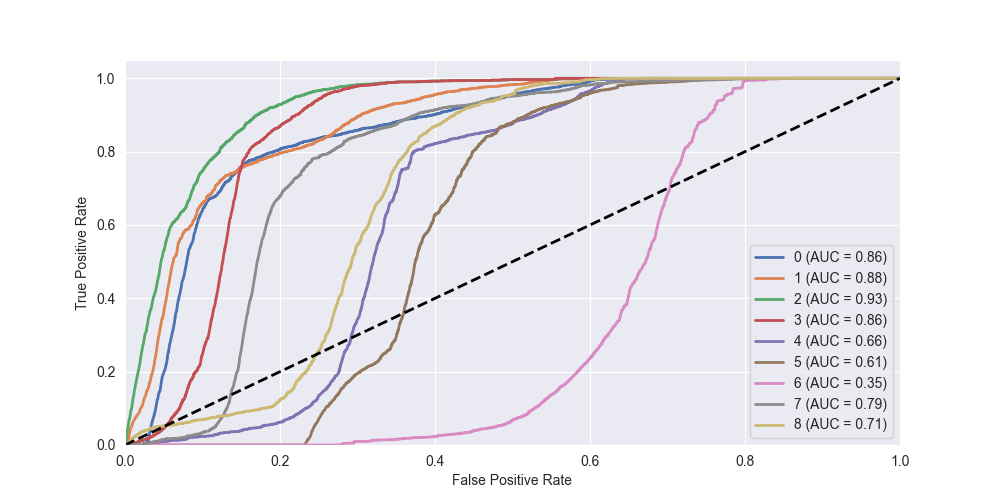
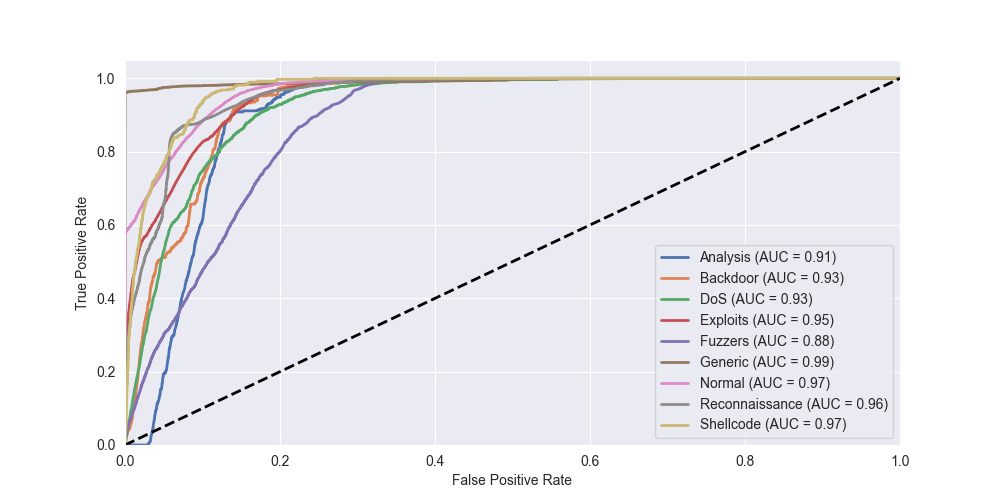
fix

diff --git a/src/models/predict_model.py b/src/models/predict_model.py
@@ -16,6 +16,7 @@ from sklearn.metrics import mean_absolute_error as mae
 from sklearn.metrics import mean_absolute_percentage_error as mape
 from sklearn.metrics import mean_squared_error as mse
 from sklearn.metrics import precision_score, recall_score, roc_curve
+from sklearn.preprocessing import LabelBinarizer
 
 from data.preprocess_data import get_classes
 
@@ -141,7 +142,7 @@ class Prediction:
         prob = self.category_model.predict(x)
         y_pred = np.argmax(prob, axis=-1)
 
-        self.calculate_classification_metrics(y, y_pred, x, is_test_set=False)
+        self.calculate_classification_metrics(y, y, y_pred, x, is_test_set=False)
 
         res_list = list(Counter(y_pred).items())
         res_list.sort(key=lambda a: a[1], reverse=True)
@@ -158,8 +159,11 @@ class Prediction:
         test_df = pd.read_csv(const.WHOLE_CAT_TEST_DATASET)
         testX, testY = format_data(test_df)
 
+        train_df = pd.read_csv(const.WHOLE_CAT_TRAIN_DATASET)
+        _, trainY = format_data(train_df)
+
         prob = self.category_model.predict(testX)
-        self.calculate_classification_metrics(testY, prob, is_test_set=True)
+        self.calculate_classification_metrics(trainY, testY, prob, is_test_set=True)
 
 
     ## Metrics ##
@@ -178,7 +182,7 @@ class Prediction:
                 f.write('RMSE score:  {:.2f}\n\n'.format(math.sqrt(mse_score)))
 
 
-    def calculate_classification_metrics(self, y, prob, is_test_set):
+    def calculate_classification_metrics(self, y_train, y, prob, is_test_set):
         if is_test_set:
             METRICS_PATH = const.MODEL_CLASSIFICATION_METRICS_TEST_PATH
             ROC_CURVE_PATH = const.MODEL_METRICS_ROC_TEST_PATH
@@ -214,7 +218,7 @@ class Prediction:
         plt.tight_layout()
         plt.savefig(CONF_MATRIX_PATH.format(self.model_number), dpi=400)
 
-        roc_auc_multiclass(y, prob, ROC_CURVE_PATH.format(self.model_number))
+        roc_auc_multiclass(y_train, y, prob, ROC_CURVE_PATH.format(self.model_number))
 
 
     ## Plots and other functions ##
@@ -281,8 +285,8 @@ def load_best_model(model_number, model_name, model_type):
     return None
 
 
-def roc_auc_multiclass(y_test, y_pred, path):
-    sns.set_style('darkgrid')        # darkgrid, white grid, dark, white and ticks
+def roc_auc_multiclass(y_train, y_test, y_score, path):
+    sns.set_style('darkgrid')        
     deep_colors = sns.color_palette('deep')
     classes = get_classes()
     fpr = dict()
@@ -290,13 +294,16 @@ def roc_auc_multiclass(y_test, y_pred, path):
     roc_auc = dict()
     n_classes = 9
 
+    label_binarizer = LabelBinarizer().fit(y_train)
+    y_onehot_test = label_binarizer.transform(y_test)
+
     for i in range(n_classes):
-        fpr[i], tpr[i], _ = roc_curve(y_test, y_pred[:, i], pos_label=2)
+        fpr[i], tpr[i], _ = roc_curve(y_onehot_test[:, i], y_score[:, i])
         roc_auc[i] = auc(fpr[i], tpr[i])
 
     plt.figure(figsize=(10, 5))
     for i in range(n_classes):
-        plt.plot(fpr[i], tpr[i], lw=2, color = deep_colors[i], label='{0} (AUC = {1:0.2f})'.format(i, roc_auc[i]))
+        plt.plot(fpr[i], tpr[i], lw=2, color = deep_colors[i], label='{0} (AUC = {1:0.2f})'.format(classes[i], roc_auc[i]))
     plt.plot([0, 1], [0, 1], 'k--', lw=2)
     plt.xlim([0.0, 1.0])
     plt.ylim([0.0, 1.05])
